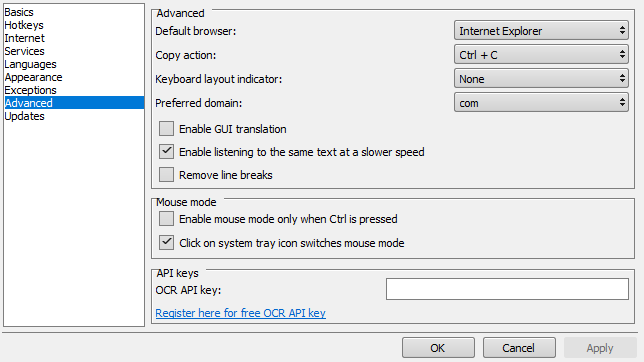
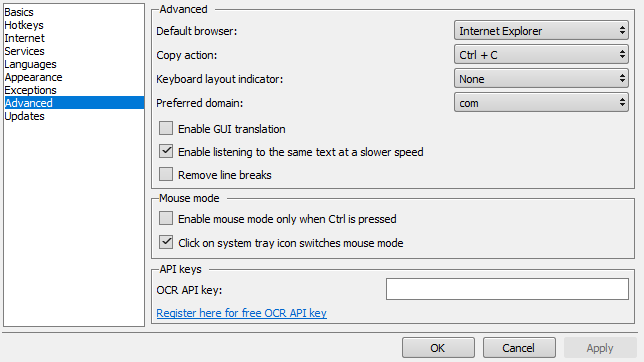
fix(qt): the Options pages land on the native's pixels, and the render stops crashing
The group box's title straddles the frame's top line and reaches 4px
above it, so the widget is that much taller at the top and the frame is
drawn 4px down. The title's text starts 9px inside the frame with its
baseline 4px below the line, and it cuts a gap in the line from 8px
inside the frame to 8px past the end of the text.

The blue checkbox of the Services and Languages lists was never drawn
blue: the port draws those lists as QCheckBox widgets with a "blue"
property, and the rule that made them blue named a QListView. The
property selector is what the widgets actually answer to.

The render tool SEGVFAULTED: a window that is garbage collected while
Qt still has a paint event queued for it is an access violation in the
painter, and the loop collected each window as it went. The tool now
keeps them alive. faulthandler is on, so a crash there says where.

Three tools to aim the next fix: tools/rows.py prints the native's and
the render's text rows side by side with the dy and dx of each pair,
tools/hotspots.py maps where the remaining difference is, and
tools/shots.py refreshes screenshots/ from the front end.

The ink measure (total ink, the ClearType-invariant one) over the ten
windows that render: main 0.0144, dict 0.0028, updates 0.0062,
internet 0.0083, services 0.0130, exceptions 0.0216, appearance 0.0243,
languages 0.0324, hotkeys 0.0390.

diff --git a/qtranslate_style.py b/qtranslate_style.py
@@ -99,13 +99,18 @@ QLineEdit:disabled {{ background: {FACE}; color: {DIM}; border-color: {DIM}; }}
 QListWidget::item {{ padding: 0 2px; }}
 QListWidget::item:selected {{ background: {ACCENT}; color: #ffffff; }}
 QHeaderView::section {{ background: {WINDOW}; border: none; border-right: 1px solid {COLSEP}; padding: 0 6px; }}
-QCheckBox::indicator {{ width: 13px; height: 13px; border: 1px solid {BORDER};
+QCheckBox::indicator {{ width: 12px; height: 12px; border: 1px solid {BORDER};
   background: qlineargradient(x1:0,y1:0,x2:0,y2:1,stop:0 {CB_TOP},stop:1 {CB_BOT}); }}
 QCheckBox::indicator:checked {{ image: url({tick_k}); }}
 QCheckBox::indicator:disabled {{ border-color: {DIM}; }}
 /* checkboxes INSIDE list views (Services, Languages) are blue with a white tick */
 QListView::indicator {{ width: 13px; height: 13px; border: 1px solid {BORDER}; background: {WINDOW}; }}
 QListView::indicator:checked {{ background: {CHECK}; border: 1px solid {CHECK}; image: url({tick_w}); }}
+/* The port draws the Services and Languages checklists as QCheckBox widgets
+   with the "blue" property set rather than as a QListView, so the rule
+   that makes them blue has to name the property. */
+QCheckBox[blue="true"]::indicator {{ width: 13px; height: 13px; border: 1px solid {BORDER}; background: {WINDOW}; }}
+QCheckBox[blue="true"]::indicator:checked {{ background: {CHECK}; border: 1px solid {CHECK}; image: url({tick_w}); }}
 QGroupBox {{ border: none; margin-top: 7px; }}
 QGroupBox::title {{ subcontrol-origin: margin; subcontrol-position: top left; left: 9px; padding: 0 2px; background: {FACE}; }}
 QScrollBar:vertical {{ background: {FACE}; width: 14px; margin: 0; }}
@@ -140,22 +145,34 @@ class EtchedGroupBox(QGroupBox):
     QSS cannot draw the white offset, so everything is painted here (children stay normal widgets).
 
     MEASURED off the native Options capture 2140: the frame's top line is on
-    the widget's own top edge, and the title's text is centred on that line
-    (its baseline sits a few pixels BELOW the line, so the letters straddle
-    it). The title's background clears the frame line -- and the white
-    offset under it -- for the width of the text plus 2px on each side.
+    the widget's own top edge (y=35 for the Advanced group, whose border
+    runs x=152..635), and the title STRADDLES that line -- "Advanced" has
+    its cap-top 4px above the line and its baseline 4px below it. The
+    title's background clears the frame line for the width of the text
+    plus 2px on each side (the native's line is broken from x=160 to
+    x=214, and the ink starts at x=167).
     """
+    # The title's text starts 9px inside the frame, its baseline 4px
+    # below the frame's top line (so the letters straddle the line), and
+    # it cuts a gap in that line from 8px inside the frame to 8px past
+    # the end of the text. The title also reaches 4px ABOVE the frame's
+    # top line, so the widget is that much taller at the top and the
+    # frame is drawn 4px down (see `qtranslate.qt.widgets.group`).
+    TITLE_X, TITLE_BASE, GAP_PAD = 9, 4, 8
+    FRAME_TOP = 4
+
     def paintEvent(self, e):
         p = QPainter(self)
         fm = self.fontMetrics()
         p.fillRect(self.rect(), QColor(FACE))
-        r = QRect(0, 0, self.width() - 1, self.height() - 1)
+        top = self.FRAME_TOP
+        r = QRect(0, top, self.width() - 1, self.height() - top - 1)
         p.setPen(QPen(QColor("#ffffff"), 1)); p.drawRect(r.translated(1, 1))
         p.setPen(QPen(QColor(BORDER), 1));    p.drawRect(r)
         t = self.title()
         if t:
-            w = fm.horizontalAdvance(t) + 4
-            p.fillRect(QRect(9, 0, w, 2), QColor(FACE))
+            w = fm.horizontalAdvance(t) + self.GAP_PAD
+            p.fillRect(QRect(self.TITLE_X - 1, top, w, 2), QColor(FACE))
             p.setPen(QColor(DIM if not self.isEnabled() else TEXT))
-            p.drawText(6, fm.ascent() - fm.height() // 2 + 3, t)
+            p.drawText(self.TITLE_X, top + self.TITLE_BASE, t)
         p.end()

diff --git a/tools/rows.py b/tools/rows.py
@@ -1,0 +1,112 @@
+"""Report the text rows of a native capture and of a render, side by side.
+
+The pixel diff says HOW MUCH is different; this says WHERE. For each
+window it lists the horizontal bands that carry text -- the bands of
+rows with ink in the label column -- in the native capture and in the
+render, so a page's coordinates can be corrected in one pass instead of
+one row at a time.
+
+Usage:
+    python -I tools/rows.py advanced
+    python -I tools/rows.py advanced --x 155 300
+"""
+from __future__ import annotations
+
+import os
+import sys
+
+ROOT = os.path.dirname(os.path.dirname(os.path.abspath(__file__)))
+sys.path.insert(0, ROOT)
+
+from PIL import Image
+
+NATIVE_DIR = os.path.join(ROOT, "docs", "review", "native_screens")
+QT_DIR = os.path.join(ROOT, "docs", "review", "ui_qt")
+
+NATIVE = {
+    "main": "2131.png", "dict": "2132.png", "hist": "2133.png",
+    "kbd": "2134.png", "hotkeys": "2126.png", "internet": "2135.png",
+    "services": "2136.png", "languages": "2137.png",
+    "appearance": "2138.png", "exceptions": "2139.png",
+    "advanced": "2140.png", "updates": "2141.png",
+}
+ORIGIN = {"main": (1, 31), "dict": (1, 31), "hist": (1, 31), "kbd": (1, 31),
+          "hotkeys": (1, 24)}
+DEFAULT_ORIGIN = (1, 26)
+
+
+def bands(im, x0, x1, thr=600, need=2, gap=3):
+    """The rows that carry text, as (first, last) pairs."""
+    px = im.load()
+    W, H = im.size
+    rows = []
+    for y in range(H):
+        n = 0
+        for x in range(max(0, x0), min(W, x1)):
+            if sum(px[x, y]) < thr:
+                n += 1
+                if n >= need:
+                    break
+        if n >= need:
+            rows.append(y)
+    out = []
+    for y in rows:
+        if out and y - out[-1][-1] <= gap:
+            out[-1][-1] = y
+        else:
+            out.append([y, y])
+    return out
+
+
+def ink_x(im, y0, y1, x0, x1, thr=600):
+    """The first and last column with ink between two rows."""
+    px = im.load()
+    W = im.size[0]
+    cols = [x for x in range(max(0, x0), min(W, x1))
+            if any(sum(px[x, y]) < thr for y in range(y0, min(y1, im.size[1])))]
+    return (min(cols), max(cols)) if cols else (None, None)
+
+
+def report(screen, x0, x1):
+    ox, oy = ORIGIN.get(screen, DEFAULT_ORIGIN)
+    nat = Image.open(os.path.join(NATIVE_DIR, NATIVE[screen])).convert("RGB")
+    nat = nat.crop((ox, oy, nat.width, nat.height))
+    qt_path = os.path.join(QT_DIR, screen + ".png")
+    if not os.path.exists(qt_path):
+        print("%s: no render" % screen)
+        return
+    qt = Image.open(qt_path).convert("RGB")
+    nb = bands(nat, x0, x1)
+    qb = bands(qt, x0, x1)
+    print("=== %s  (x %d..%d)" % (screen, x0, x1))
+    print("%-28s %s" % ("native", "render"))
+    for i in range(max(len(nb), len(qb))):
+        n = "%3d..%-3d" % (nb[i][0], nb[i][1]) if i < len(nb) else " " * 8
+        q = "%3d..%-3d" % (qb[i][0], qb[i][1]) if i < len(qb) else ""
+        dy = dx = ""
+        if i < len(nb) and i < len(qb):
+            dy = "  dy=%+d" % (qb[i][0] - nb[i][0])
+            n0, _ = ink_x(nat, nb[i][0], nb[i][1] + 1, x0, x1)
+            q0, _ = ink_x(qt, qb[i][0], qb[i][1] + 1, x0, x1)
+            if n0 is not None and q0 is not None:
+                dx = " dx=%+d" % (q0 - n0)
+        print("  %-10s %-10s%s%s" % (n, q, dy, dx))
+
+
+def main():
+    args = []
+    x0, x1 = 155, 300
+    rest = sys.argv[1:]
+    while rest:
+        a = rest.pop(0)
+        if a == "--x":
+            x0, x1 = int(rest.pop(0)), int(rest.pop(0))
+        elif not a.startswith("-"):
+            args.append(a)
+    for screen in args or sorted(NATIVE):
+        report(screen, x0, x1)
+    return 0
+
+
+if __name__ == "__main__":
+    raise SystemExit(main())

diff --git a/tools/hotspots.py b/tools/hotspots.py
@@ -1,0 +1,85 @@
+"""Where a page's remaining difference is, as a map.
+
+The ink ratio says HOW MUCH is different; this says WHERE, cell by cell,
+so the next fix is aimed at the biggest patch instead of the first thing
+that catches the eye.
+
+Usage:
+    python -I tools/hotspots.py advanced
+    python -I tools/hotspots.py advanced --cols 80
+"""
+from __future__ import annotations
+
+import os
+import sys
+
+ROOT = os.path.dirname(os.path.dirname(os.path.abspath(__file__)))
+sys.path.insert(0, ROOT)
+
+from PIL import Image, ImageChops
+
+NATIVE_DIR = os.path.join(ROOT, "docs", "review", "native_screens")
+QT_DIR = os.path.join(ROOT, "docs", "review", "ui_qt")
+
+NATIVE = {
+    "main": "2131.png", "dict": "2132.png", "hist": "2133.png",
+    "kbd": "2134.png", "hotkeys": "2126.png", "internet": "2135.png",
+    "services": "2136.png", "languages": "2137.png",
+    "appearance": "2138.png", "exceptions": "2139.png",
+    "advanced": "2140.png", "updates": "2141.png",
+}
+ORIGIN = {"main": (1, 31), "dict": (1, 31), "hist": (1, 31), "kbd": (1, 31),
+          "hotkeys": (1, 24)}
+DEFAULT_ORIGIN = (1, 26)
+RAMP = " .:-=+*#%@"
+
+
+def ink(im):
+    r, g, b = im.split()
+    return ImageChops.add(ImageChops.add(r, g), b)
+
+
+def report(screen, cols=64):
+    ox, oy = ORIGIN.get(screen, DEFAULT_ORIGIN)
+    nat = Image.open(os.path.join(NATIVE_DIR, NATIVE[screen])).convert("RGB")
+    nat = nat.crop((ox, oy, nat.width, nat.height))
+    qt_path = os.path.join(QT_DIR, screen + ".png")
+    if not os.path.exists(qt_path):
+        print("%s: no render" % screen)
+        return
+    qt = Image.open(qt_path).convert("RGB")
+    w, h = min(nat.width, qt.width), min(nat.height, qt.height)
+    nat, qt = nat.crop((0, 0, w, h)), qt.crop((0, 0, w, h))
+    diff = ImageChops.difference(ink(nat), ink(qt))
+    mask = diff.point(lambda v: 255 if v > 8 else 0)
+    px = mask.load()
+    rows = max(1, h // 16)
+    grid = [[0] * cols for _ in range((h + rows - 1) // rows)]
+    for y in range(h):
+        for x in range(w):
+            if px[x, y]:
+                grid[y // rows][min(cols - 1, x * cols // w)] += 1
+    print("=== %s  %dx%d  rows=%dpx" % (screen, w, h, rows))
+    for r, line in enumerate(grid):
+        text = "".join(RAMP[min(9, n * 10 // 40)] for n in line)
+        if text.strip():
+            print("y=%3d %s" % (r * rows, text))
+
+
+def main():
+    args = []
+    cols = 64
+    rest = sys.argv[1:]
+    while rest:
+        a = rest.pop(0)
+        if a == "--cols":
+            cols = int(rest.pop(0))
+        elif not a.startswith("-"):
+            args.append(a)
+    for screen in args or sorted(NATIVE):
+        report(screen, cols)
+    return 0
+
+
+if __name__ == "__main__":
+    raise SystemExit(main())

diff --git a/qtranslate/qt/options/appearance.py b/qtranslate/qt/options/appearance.py
@@ -13,7 +13,7 @@ class AppearancePage(OptionsBase):
     def build(self):
         group(self, 152, 35, 484, 56, "General")
         check(self, 160, 55, "Enable window style")
-        label(self, 157, 77, "Theme:")
+        label(self, 158, 77, "Theme:")
         combo(self, 397, 68, 233, "--- Default ---")
         group(self, 152, 98, 484, 226, "Popup window")
         for cy, t, on in [(122, "Enable auto size", 1),
@@ -21,19 +21,19 @@ class AppearancePage(OptionsBase):
                           (167, "Activate when opened", 0),
                           (190, "Pin when dragging", 1)]:
             check(self, 160, cy, t, bool(on))
-        label(self, 157, 213, "Auto-hide delay:")
+        label(self, 158, 213, "Auto-hide delay:")
         combo(self, 397, 204, 115, "5")
-        label(self, 523, 213, "seconds")
-        label(self, 157, 237, "Transparency (0 - 90):")
+        label(self, 524, 213, "seconds")
+        label(self, 158, 237, "Transparency (0 - 90):")
         field(self, 397, 227, 233, 20, "15")
-        label(self, 157, 261, "Frame thickness:")
+        label(self, 158, 261, "Frame thickness:")
         combo(self, 397, 252, 233, "2")
-        label(self, 157, 286, "Icons:")
+        label(self, 158, 286, "Icons:")
         for i, g in enumerate(["▤", "∩", "⧉", "tā"]):
             b = button(self, 398 + 23 * i, 275, 22, g, 22)
             b.setStyleSheet("QPushButton{background:#c4c4c4;padding:0;}")
-        label(self, 157, 313, "Background color:")
-        label(self, 320, 313, "Text color:")
-        label(self, 482, 313, "Frame color:")
+        label(self, 158, 313, "Background color:")
+        label(self, 321, 313, "Text color:")
+        label(self, 483, 313, "Frame color:")
         rect(self, 378, 305, 87, 17, "#000000")
         rect(self, 549, 305, 78, 17, "#5d6c7a")

diff --git a/tools/render_qt.py b/tools/render_qt.py
@@ -12,8 +12,12 @@ Usage:
 from __future__ import annotations
 
 import argparse
+import faulthandler
 import os
 import sys
+
+# A segfault inside Qt leaves no traceback; this one does.
+faulthandler.enable()
 
 ROOT = os.path.dirname(os.path.dirname(os.path.abspath(__file__)))
 sys.path.insert(0, ROOT)
@@ -85,6 +89,11 @@ def render(out_dir=OUT):
     app = QtApp([sys.argv[0]])
     app._load_session()
     done = 0
+    # Keep every window alive until the end. A window that is garbage
+    # collected while Qt still has a paint event queued for it is an
+    # access violation in the painter, and the render died on the
+    # window after the one before it.
+    alive = []
     for name, (mod, cls) in sorted(WINDOWS.items()):
         try:
             module = importlib.import_module("qtranslate.qt." + mod)
@@ -105,6 +114,7 @@ def render(out_dir=OUT):
             edit.setCursorWidth(0)
         app.qapp.processEvents()
         window.grab().save(os.path.join(out_dir, name + ".png"))
+        alive.append(window)
         done += 1
         print("rendered %-12s -> %s" % (name, out_dir))
     print("rendered %d windows" % done)

diff --git a/qtranslate/qt/options/basics.py b/qtranslate/qt/options/basics.py
@@ -20,16 +20,16 @@ class BasicsPage(OptionsBase):
         # measure positions from -- see docs/roadmap/BLOCKERS.md B4.
         group(self, 152, 35, 484, 130, "General")
         check(self, 160, 55, "Start with Windows", True)
-        label(self, 157, 77, "Interface language:")
+        label(self, 158, 77, "Interface language:")
         combo(self, 455, 68, 175, "English")
-        label(self, 157, 99, "Font name:")
+        label(self, 158, 99, "Font name:")
         combo(self, 455, 89, 175, "Segoe UI")
-        label(self, 157, 121, "Text size:")
+        label(self, 158, 121, "Text size:")
         combo(self, 455, 111, 175, "9")
         group(self, 152, 148, 484, 48, "Auto-detect languages")
-        label(self, 157, 170, "First language:")
+        label(self, 158, 170, "First language:")
         combo(self, 455, 160, 175, "Vietnamese")
-        label(self, 157, 183, "Second language:")
+        label(self, 158, 183, "Second language:")
         combo(self, 455, 173, 175, "English")
         group(self, 152, 208, 484, 70, "History")
         check(self, 160, 228, "Enable history", True)

diff --git a/qtranslate/qt/options/advanced.py b/qtranslate/qt/options/advanced.py
@@ -16,7 +16,7 @@ class AdvancedPage(OptionsBase):
                          (80, "Copy action:", "Ctrl + C"),
                          (104, "Keyboard layout indicator:", "None"),
                          (128, "Preferred domain:", "com")]:
-            label(self, 157, cy, t)
+            label(self, 158, cy, t)
             combo(self, 455, cy - 10, 175, v)
         check(self, 160, 154, "Enable GUI translation")
         check(self, 160, 177, "Enable listening to the same text at a slower speed", True)
@@ -25,7 +25,7 @@ class AdvancedPage(OptionsBase):
         check(self, 160, 244, "Enable mouse mode only when Ctrl is pressed")
         check(self, 160, 268, "Click on system tray icon switches mouse mode", True)
         group(self, 152, 295, 484, 55, "API keys")
-        label(self, 157, 315, "OCR API key:")
+        label(self, 158, 315, "OCR API key:")
         field(self, 387, 304, 243, 22)
-        label(self, 157, 338, "Register here for free OCR API key",
+        label(self, 158, 338, "Register here for free OCR API key",
               color=LINK, underline=True)

diff --git a/qtranslate/qt/widgets.py b/qtranslate/qt/widgets.py
@@ -93,8 +93,15 @@ def check(parent, l, cy, text, on=False, blue=False):
 
 
 def group(parent, l, t, w, h, title):
-    """Native's Win32 group box (see ``qtranslate_style.EtchedGroupBox``)."""
-    return put(parent, EtchedGroupBox(title), l, t, w, h)
+    """Native's Win32 group box (see ``qtranslate_style.EtchedGroupBox``).
+
+    ``l, t`` is where the FRAME is: the native draws the title so that
+    it straddles the frame's top line, which puts the top of the title
+    4px above it. The widget is that much taller at the top, so the
+    frame lands where the measurement says it does.
+    """
+    top = EtchedGroupBox.FRAME_TOP
+    return put(parent, EtchedGroupBox(title), l, t - top, w, h + top)
 
 
 def field(parent, l, t, w, h, text="", enabled=True):

diff --git a/qtranslate/qt/options/internet.py b/qtranslate/qt/options/internet.py
@@ -12,7 +12,7 @@ class InternetPage(OptionsBase):
 
     def build(self):
         group(self, 152, 35, 484, 45, "Connection")
-        label(self, 157, 59, "Timeout, sec:")
+        label(self, 158, 59, "Timeout, sec:")
         combo(self, 455, 50, 175, "10")
         group(self, 152, 91, 484, 101, "Proxy")
         combo(self, 157, 105, 470, "Use system proxy settings")
